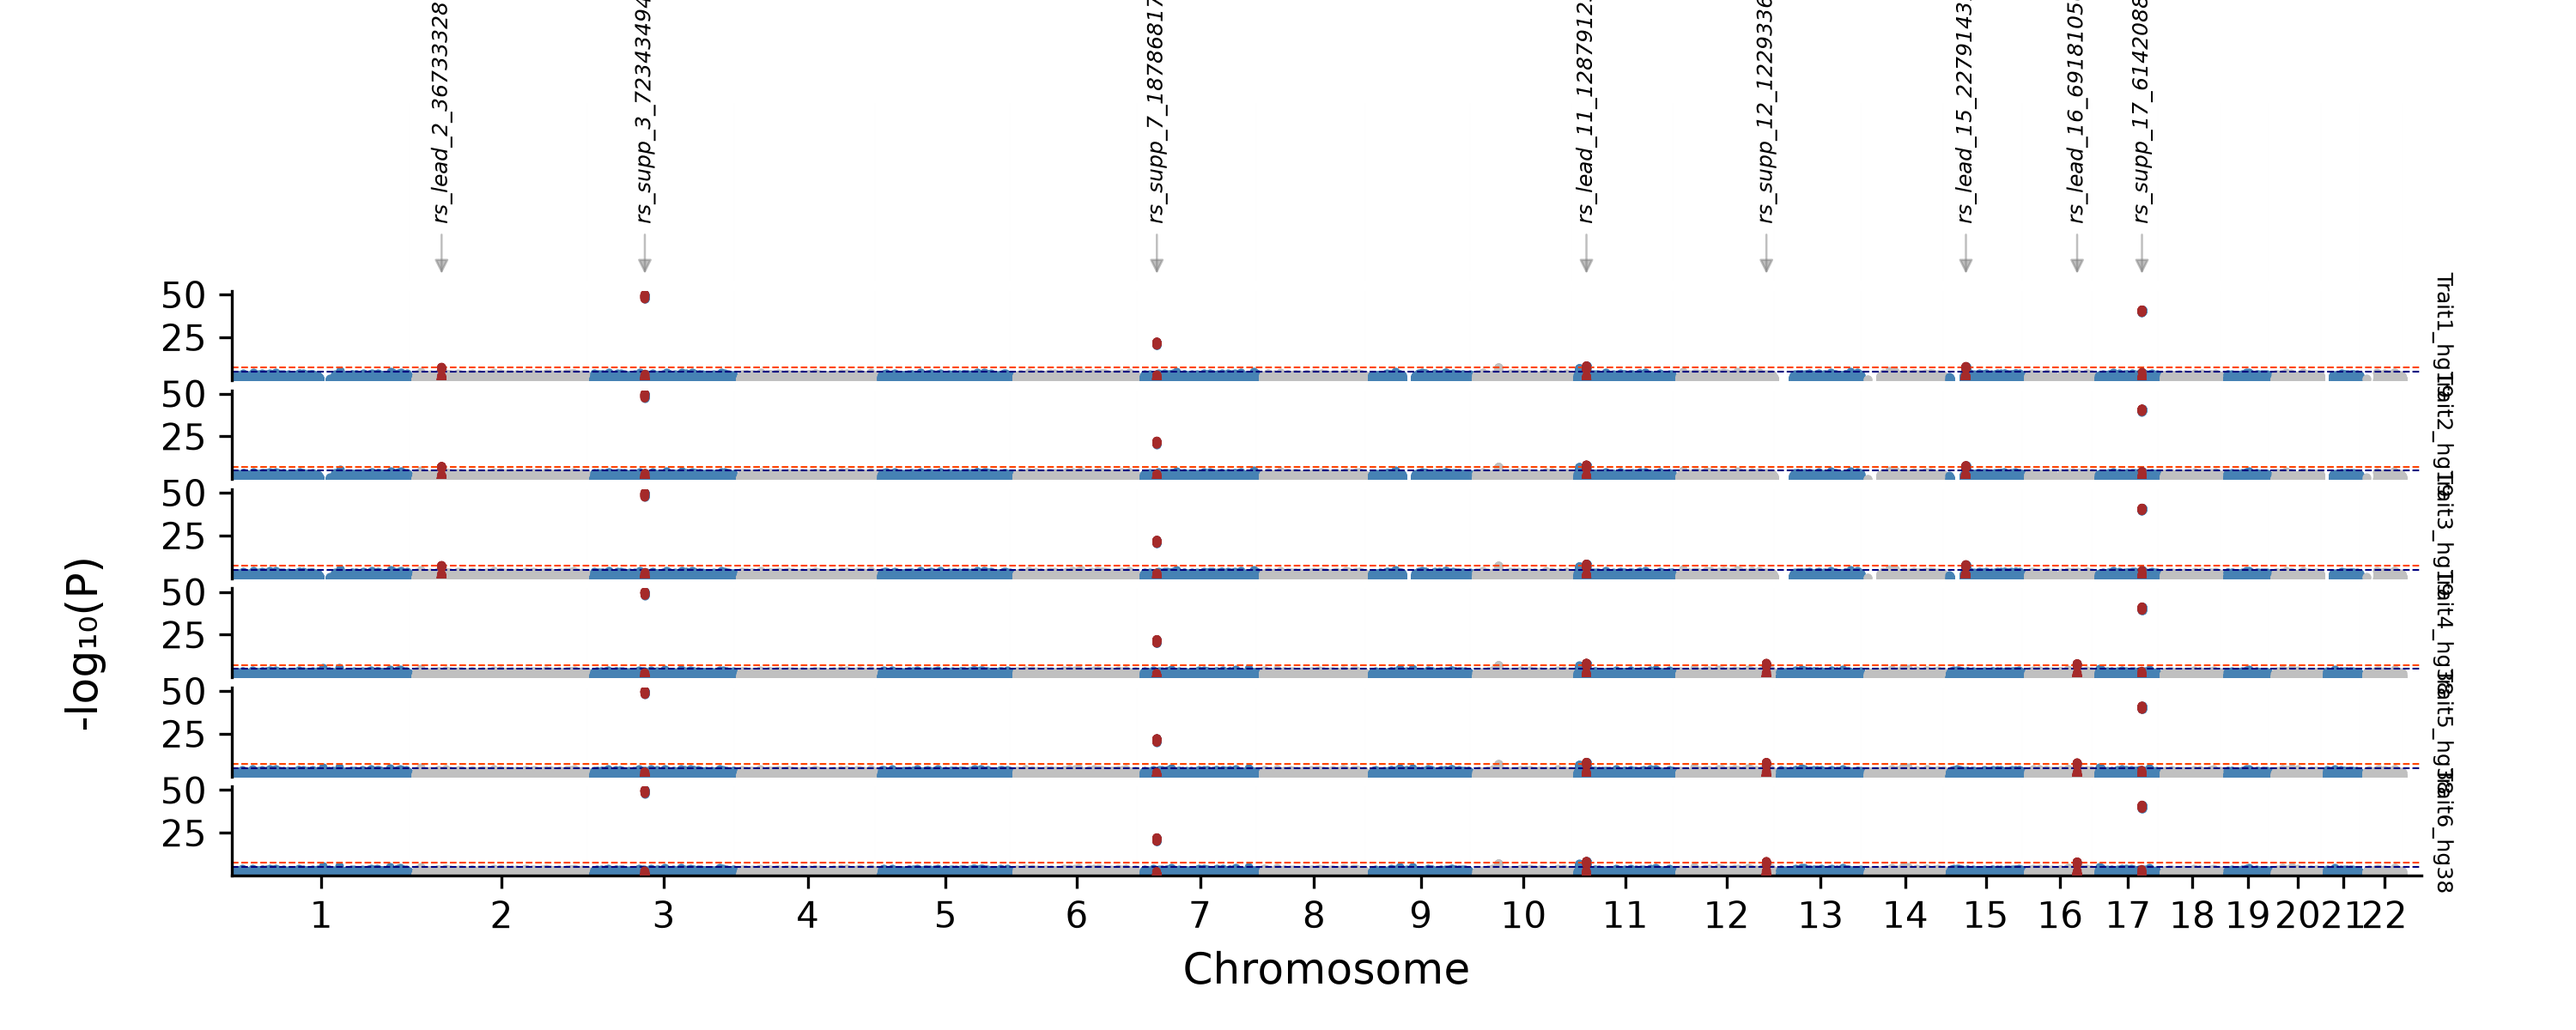
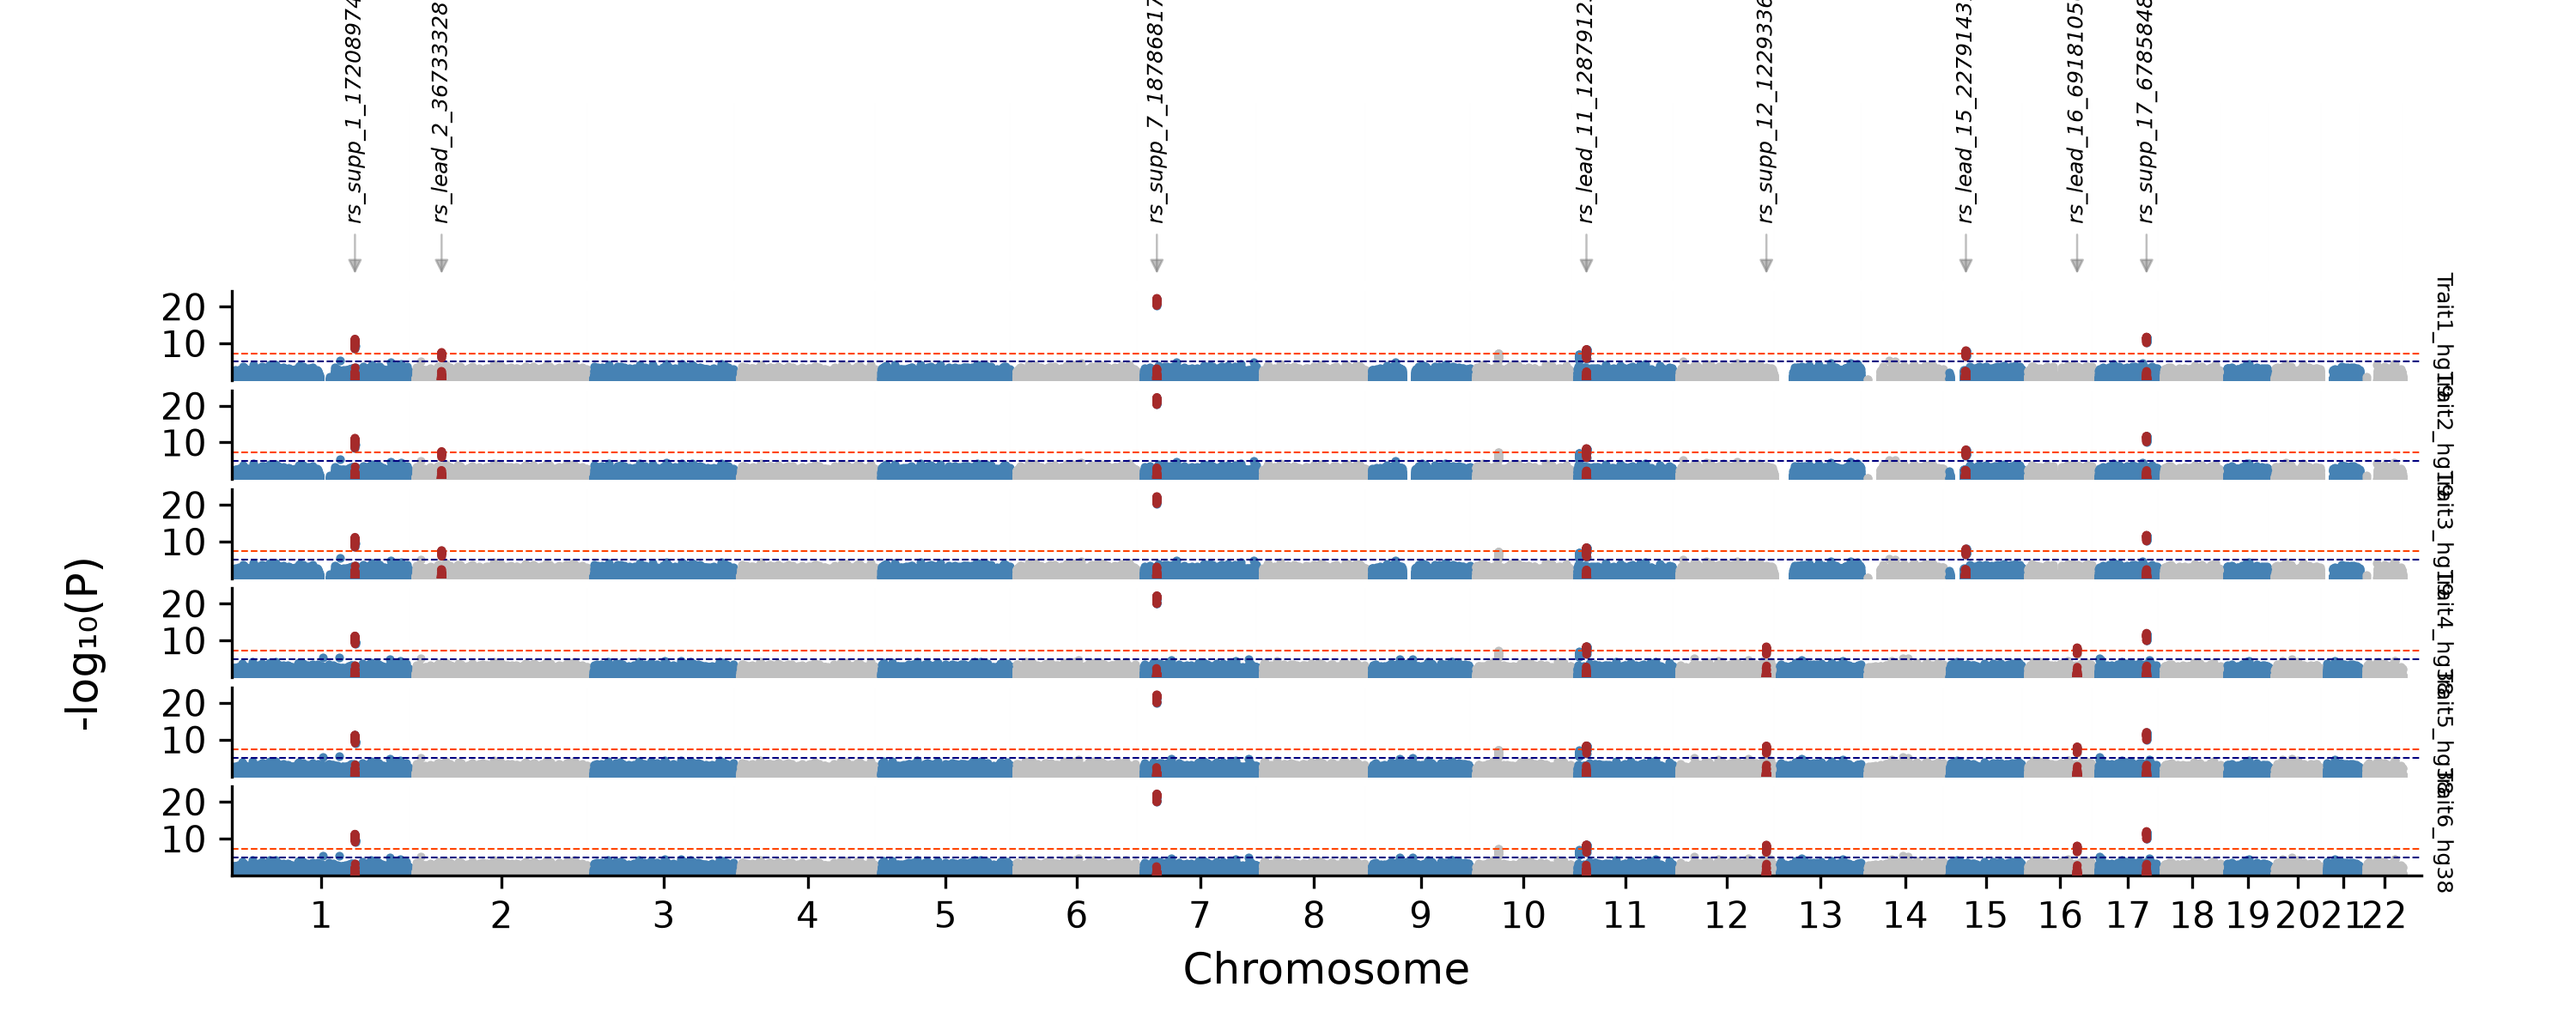
adjust significant loci

diff --git a/benchmark/generate_sumstats.py b/benchmark/generate_sumstats.py
@@ -77,25 +77,25 @@ CHROM_SIZES = HG38_CHROM_SIZES
 # identity across builds so liftover round-trips can be validated by 
 # comparing (build, position) tuples.
 HG19_TARGET_SPIKES: list[tuple[str, int, float]] = [
-    ("3",  72_392_645,  1e-50),   # rs4677148
+    ("1",  172_058_886, 7e-12),   # rs186897198
     ("2",  36_733_328,  3e-08),   # rs2030645 - hg19-specific
     ("7",  18_786_817,  7e-23),   # rs727851
     ("10", 31_127_166,  7e-08),   # rs12413361
     ("11", 12_879_123,  5e-09),   # rs546512774
     ("11", 2_802_090,   9e-08),   # rs234886
     ("15", 22_791_431,  1e-08),   # rs6606792 - hg19-specific
-    ("17", 59_498_250,  1e-41),   # rs9905385
+    ("17", 65_854_602,  2e-12),   # rs55931203
 ]
 
 HG38_TARGET_SPIKES: list[tuple[str, int, float]] = [
-    ("3",  72_343_494,  1e-50),   # rs4677148
+    ("1",  172_089_746, 7e-12),   # rs186897198
     ("7",  18_747_194,  7e-23),   # rs727851
     ("10", 30_838_237,  7e-08),   # rs12413361
     ("11", 12_857_576,  5e-09),   # rs546512774
     ("11", 2_780_860,   9e-08),   # rs234886
     ("12", 122_933_684, 7e-09),   # rs73230017 - hg38-specific
     ("16", 69_181_056,  1e-08),   # rs12444184 - hg38-specific
-    ("17", 61_420_889,  1e-41),   # rs9905385
+    ("17", 67_858_486,  2e-12),   # rs55931203
 ]
 
 # Half-width of the peak window in bp — variants *outside* every target
@@ -493,9 +493,9 @@ def main():
             "generator that scatters n_signals hits across the "
             "genome with no controlled positions.  See "
             ":data:`HG19_TARGET_SPIKES` / :data:`HG38_TARGET_SPIKES` "
-            "for the coordinate lists (6 body-height associated gwas-catalog " 
-            "loci: rs4677148, rs727851, "
-            "rs12413361, rs546512774, rs234886, rs9905385)."
+            "for the coordinate lists (10 body-height associated gwas-catalog " 
+            "loci: rs186897198, rs727851, rs2030645, rs6606792, rs73230017, rs12444184"
+            "rs12413361, rs546512774, rs234886, rs55931203)."
         ),
     )
     args = parser.parse_args()

diff --git a/docs/cli_tutorial.rst b/docs/cli_tutorial.rst
@@ -55,27 +55,28 @@ These are actuall **body height** significant loci pulled from `GWAS Catalog`_.
 
 .. _GWAS Catalog: https://www.ebi.ac.uk/gwas/efotraits/OBA_VT0001253
 
-.. code-block:: bash
+.. code-block::
+
    HG19_TARGET_SPIKES: list[tuple[str, int, float]] = [
-      ("3",  72_392_645,  1e-50),   # rs4677148
+      ("1",  172_058_886, 7e-12),   # rs186897198
       ("2",  36_733_328,  3e-08),   # rs2030645 - hg19-specific
       ("7",  18_786_817,  7e-23),   # rs727851
       ("10", 31_127_166,  7e-08),   # rs12413361
       ("11", 12_879_123,  5e-09),   # rs546512774
       ("11", 2_802_090,   9e-08),   # rs234886
       ("15", 22_791_431,  1e-08),   # rs6606792 - hg19-specific
-      ("17", 59_498_250,  1e-41),   # rs9905385
+      ("17", 65_854_602,  2e-12),   # rs55931203
    ]
 
    HG38_TARGET_SPIKES: list[tuple[str, int, float]] = [
-      ("3",  72_343_494,  1e-50),   # rs4677148
+      ("1",  172_089_746, 7e-12),   # rs186897198
       ("7",  18_747_194,  7e-23),   # rs727851
       ("10", 30_838_237,  7e-08),   # rs12413361
       ("11", 12_857_576,  5e-09),   # rs546512774
       ("11", 2_780_860,   9e-08),   # rs234886
       ("12", 122_933_684, 7e-09),   # rs73230017 - hg38-specific
       ("16", 69_181_056,  1e-08),   # rs12444184 - hg38-specific
-      ("17", 61_420_889,  1e-41),   # rs9905385
+      ("17", 67_858_486,  2e-12),   # rs55931203
    ]
 
 .. code-block:: bash
@@ -137,10 +138,10 @@ and writes the output image(s) plus a locus summary TSV.
 .. code-block:: bash
 
    pycmplot \
-     --sum_stats ./data/sumstats_1M_trait1_hg19.tsv.gz \
-     --labels Trait1 \
-     --logp \
-     --output_dir ./out
+      --sum_stats ./data/sumstats_1M_trait1_hg19.tsv.gz \
+      --labels Trait1 \
+      --logp \
+      --output_dir ./out
 
 .. figure:: img/mycmplot_trait1_hg19_lm_logp.png
    :alt: linear Manhattan plot with base options
@@ -165,14 +166,14 @@ Single-track:
 .. code-block:: bash
 
    pycmplot \
-     --sum_stats ./data/sumstats_1M_trait1_hg19.tsv.gz \
-     --labels Trait1_hg19 \
-     --plot_title "Trait1 (highlighted)" \
-     --logp \
-     --highlight \
-     --signif_line \
-     --suggest_threshold \
-     --output_dir ./out
+      --sum_stats ./data/sumstats_1M_trait1_hg19.tsv.gz \
+      --labels Trait1_hg19 \
+      --plot_title "Trait1 (highlighted)" \
+      --logp \
+      --highlight \
+      --signif_line \
+      --suggest_threshold \
+      --output_dir ./out
 
 .. figure:: img/trait1_highlighted_trait1_hg19_lm_logp.png
    :alt: linear Manhattan plot with base options
@@ -191,22 +192,22 @@ comma-separated, in matching order:
 .. code-block:: bash
 
    pycmplot \
-     --sum_stats ./data/sumstats_1M_trait1_hg19.tsv.gz,./data/sumstats_1M_trait2_hg19.tsv.gz,./data/sumstats_1M_trait3_hg19.tsv.gz,./data/sumstats_1M_trait4_hg38.tsv.gz,./data/sumstats_1M_trait5_hg38.tsv.gz,./data/sumstats_1M_trait6_hg38.tsv.gz \
-     --labels Trait1_hg19,Trait2_hg19,Trait3_hg19,Trait4_hg38,Trait5_hg38,Trait6_hg38 \
-     --plot_title "Multi-track" \
-     --logp \
-     --highlight \
-     --signif_line \
-     --suggest_threshold \
-     --annotate \
-     --output_dir ./out
+      --sum_stats ./data/sumstats_1M_trait1_hg19.tsv.gz,./data/sumstats_1M_trait2_hg19.tsv.gz,./data/sumstats_1M_trait3_hg19.tsv.gz,./data/sumstats_1M_trait4_hg38.tsv.gz,./data/sumstats_1M_trait5_hg38.tsv.gz,./data/sumstats_1M_trait6_hg38.tsv.gz \
+      --labels Trait1_hg19,Trait2_hg19,Trait3_hg19,Trait4_hg38,Trait5_hg38,Trait6_hg38 \
+      --plot_title "Multi-track" \
+      --logp \
+      --highlight \
+      --signif_line \
+      --suggest_threshold \
+      --annotate \
+      --output_dir ./out
 
 .. figure:: img/multitrack_trait1_hg19_trait2_hg19_trait3_hg19_trait4_hg38_trait5_hg38_trait6_hg38_lm_logp.png
    :alt: linear Manhattan plot with base options
    :width: 800px
 
 .. tip::
-   The default linear plot size (``--figure_size``) is (height, width) --> (10, 4). 
+   The default linear plot size (``--figure_size``) is (width, height) --> (10, 4). 
    By default, each track (including the annotation track) gets an equal space. 
    Annotations in the figure above are not visible. We can solve this by two means.
       - either increase figure height: ``--figure_size 10,8``
@@ -215,7 +216,7 @@ comma-separated, in matching order:
    **NB:** When using ``--annotate`` in linear plotting, the first track is always 
       annotation track.
 
-  -  You can combine the two options to improve the visuals.
+   - You can combine the two options to improve the visuals.
    - You can remove the track labels on the right with ``--no_track_labels``
    - Annotate by gene symbol using ``--annotate gene`` (case insenitive).
    - Add a line through all highlighted loci using ``--highlight_line``
@@ -225,18 +226,18 @@ comma-separated, in matching order:
 .. code-block:: bash
 
    pycmplot \
-     --sum_stats ./data/sumstats_1M_trait1_hg19.tsv.gz,./data/sumstats_1M_trait2_hg19.tsv.gz,./data/sumstats_1M_trait3_hg19.tsv.gz,./data/sumstats_1M_trait4_hg38.tsv.gz,./data/sumstats_1M_trait5_hg38.tsv.gz,./data/sumstats_1M_trait6_hg38.tsv.gz \
-     --labels Trait1_hg19,Trait2_hg19,Trait3_hg19,Trait4_hg38,Trait5_hg38,Trait6_hg38 \
-     --plot_title "Multi-track" \
-     --logp \
-     --highlight \
-     --signif_line \
-     --suggest_threshold \
-     --annotate \
-     --figure_size 10,8 \
-     --output_dir ./out
+      --sum_stats ./data/sumstats_1M_trait1_hg19.tsv.gz,./data/sumstats_1M_trait6_hg38.tsv.gz \
+      --labels Trait1_hg19,Trait6_hg38 \
+      --plot_title "Multi-track_figsize" \
+      --logp \
+      --highlight \
+      --signif_line \
+      --suggest_threshold \
+      --annotate \
+      --figure_size 10,8 \
+      --output_dir ./out
 
-.. figure:: img/multitrack_figsize_trait1_hg19_trait2_hg19_trait3_hg19_trait4_hg38_trait5_hg38_trait6_hg38_lm_logp.png
+.. figure:: img/multitrack_heights_trait1_hg19_trait6_hg38_lm_logp.png
    :alt: linear Manhattan plot with base options
    :width: 800px
 
@@ -244,23 +245,21 @@ comma-separated, in matching order:
 .. code-block:: bash
 
    pycmplot \
-     --sum_stats ./data/sumstats_1M_trait1_hg19.tsv.gz,./data/sumstats_1M_trait2_hg19.tsv.gz,./data/sumstats_1M_trait3_hg19.tsv.gz,./data/sumstats_1M_trait4_hg38.tsv.gz,./data/sumstats_1M_trait5_hg38.tsv.gz,./data/sumstats_1M_trait6_hg38.tsv.gz \
-     --labels Trait1_hg19,Trait2_hg19,Trait3_hg19,Trait4_hg38,Trait5_hg38,Trait6_hg38 \
-     --plot_title "Multi-track" \
-     --logp \
-     --highlight \
-     --signif_line \
-     --suggest_threshold \
-     --annotate gene \
-     --highlight_line \
-     --track_heights 2.5,1,1,1,1,1,1 \
-     --output_dir ./out
+      --sum_stats ./data/sumstats_1M_trait1_hg19.tsv.gz,./data/sumstats_1M_trait6_hg38.tsv.gz \
+      --labels Trait1_hg19,Trait6_hg38 \
+      --plot_title "Multi-track_annotate" \
+      --logp \
+      --highlight \
+      --signif_line \
+      --suggest_threshold \
+      --annotate gene \
+      --highlight_line \
+      --track_heights 2.5,1,1,1,1,1,1 \
+      --output_dir ./out
 
 .. figure:: img/multitrack_annotate_trait1_hg19_trait2_hg19_trait3_hg19_trait4_hg38_trait5_hg38_trait6_hg38_lm_logp.png
    :alt: linear Manhattan plot with base options
    :width: 800px
-
-
 
 
 .. _cli-tut-circular:
@@ -268,22 +267,34 @@ comma-separated, in matching order:
 Circular (Circos) plots
 -----------------------
 
+The default ``--mode lm`` (linear Manhattan) is what every earlier
+command has been using implicitly.
+
 Add ``--mode cm`` (circular) to switch layout — everything else stays
 the same:
+
+**NB:** ``--track_heights`` is specific to linear mode se we exclude it.
 
 .. code-block:: bash
 
    pycmplot \
-     --sum_stats hb.tsv,mcv.tsv \
-     --labels Hb,MCV \
-     --mode cm \
-     --logp --trim_pval 0.01 \
-     --colors steelblue,silver \
-     --plot_title "RBC Traits" \
-     --output_dir ./out
+      --mode cm \
+      --sum_stats ./data/sumstats_1M_trait1_hg19.tsv.gz,./data/sumstats_1M_trait2_hg19.tsv.gz,./data/sumstats_1M_trait3_hg19.tsv.gz,./data/sumstats_1M_trait4_hg38.tsv.gz,./data/sumstats_1M_trait5_hg38.tsv.gz,./data/sumstats_1M_trait6_hg38.tsv.gz \
+      --labels Trait1_hg19,Trait2_hg19,Trait3_hg19,Trait4_hg38,Trait5_hg38,Trait6_hg38 \
+      --plot_title "Multi-track" \
+      --logp \
+      --highlight \
+      --signif_line \
+      --suggest_threshold \
+      --annotate gene \
+      --highlight_line \
+      --output_dir ./out
 
-The default ``--mode lm`` (linear Manhattan) is what every earlier
-command has been using implicitly.
+.. figure:: img/multitrack_annotate_trait1_hg19_trait2_hg19_trait3_hg19_trait4_hg38_trait5_hg38_trait6_hg38_lm_logp.png
+   :alt: linear Manhattan plot with base options
+   :width: 800px
+
+
 
 
 .. _cli-tut-highlight:
